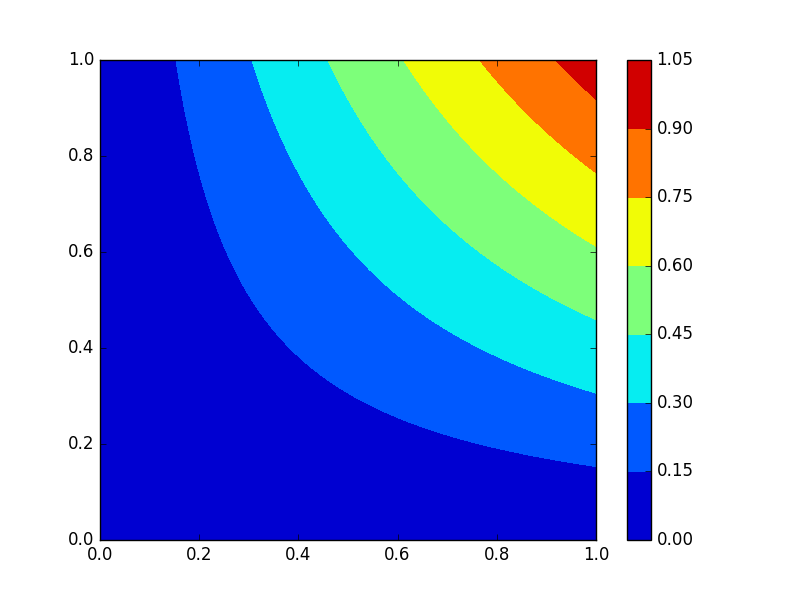
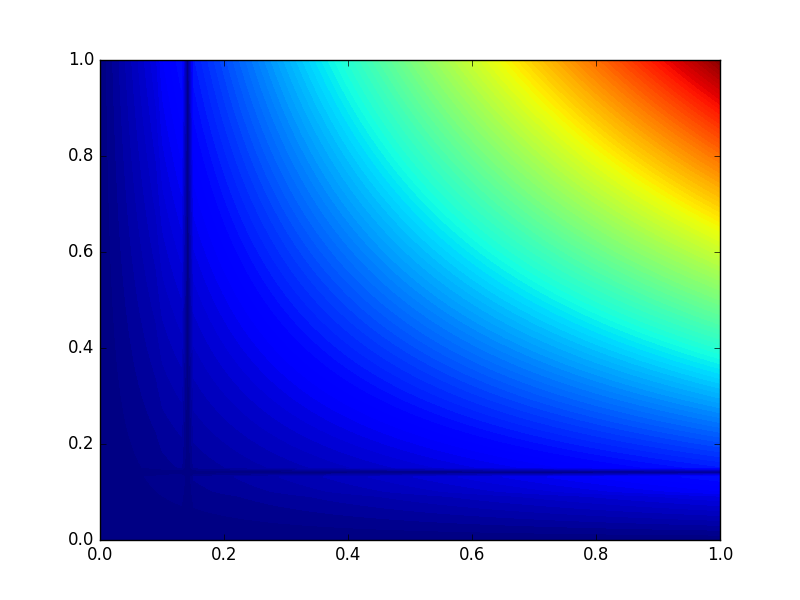
working better

diff --git a/exam/main.py b/exam/main.py
@@ -17,7 +17,7 @@ j = 0
 
 for i in range(len(x)):
     for j in range(len(y)):
-        F[j][i] = x[i]*y[j]
+        F[j][i] = 2*x[i]*y[j]
 
 Flist = np.ravel(F)
 
@@ -32,16 +32,11 @@ i = 0
 for i in range(len(Flist)):
     n[i][2] = Flist[i]
 
-px = 0.01
-k = 0
-l = 0
 kappa = np.zeros((100,100))
 pxx = np.zeros(600)
 pyy = np.zeros(600)
 
 count = 0
-
-
 px = 0.01
 
 while px < 1:
@@ -51,9 +46,7 @@ while px < 1:
         #print count
         count += 1
         kappa[px*100,py*100] = bilin.bilinear(x, y, F, px, py)
-        print py
         py += 0.01
-    print px
     px += 0.01
 
 print kappa
@@ -64,11 +57,13 @@ print kappa
 # yvals = column(n,1)
 # Fvals = column(n,2)
 
+plt.figure(1)
 plt.contourf(x,y,F)
 plt.colorbar()
 plt.savefig('noninterpolated.png',format='png')
 
-plt.contourf(np.linspace(0,1,100),np.linspace(0,1,100),kappa)
+plt.figure(2)
+plt.contourf(np.linspace(0,1,100),np.linspace(0,1,100),kappa,100)
 plt.savefig('interpolated.png',format='png')
 
 
